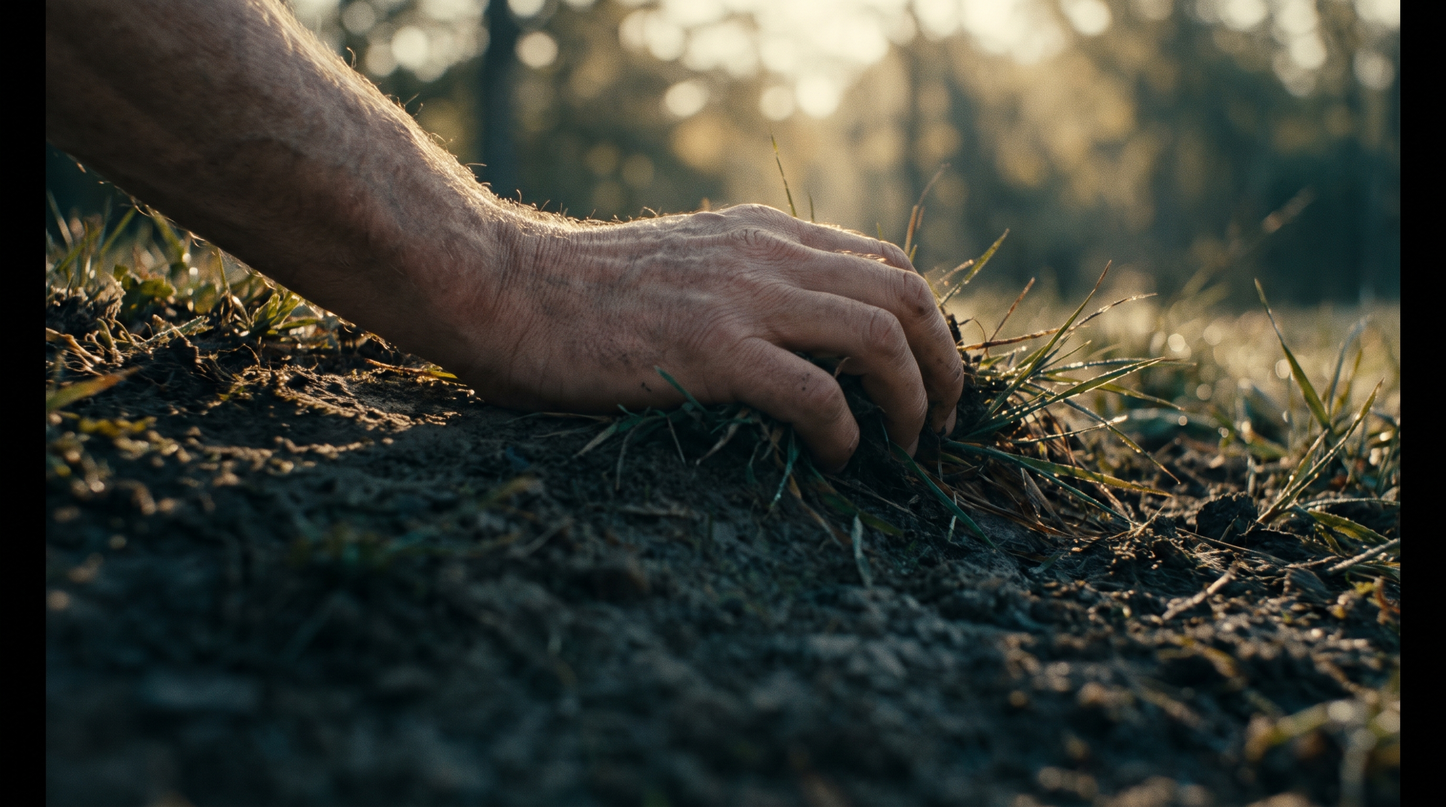
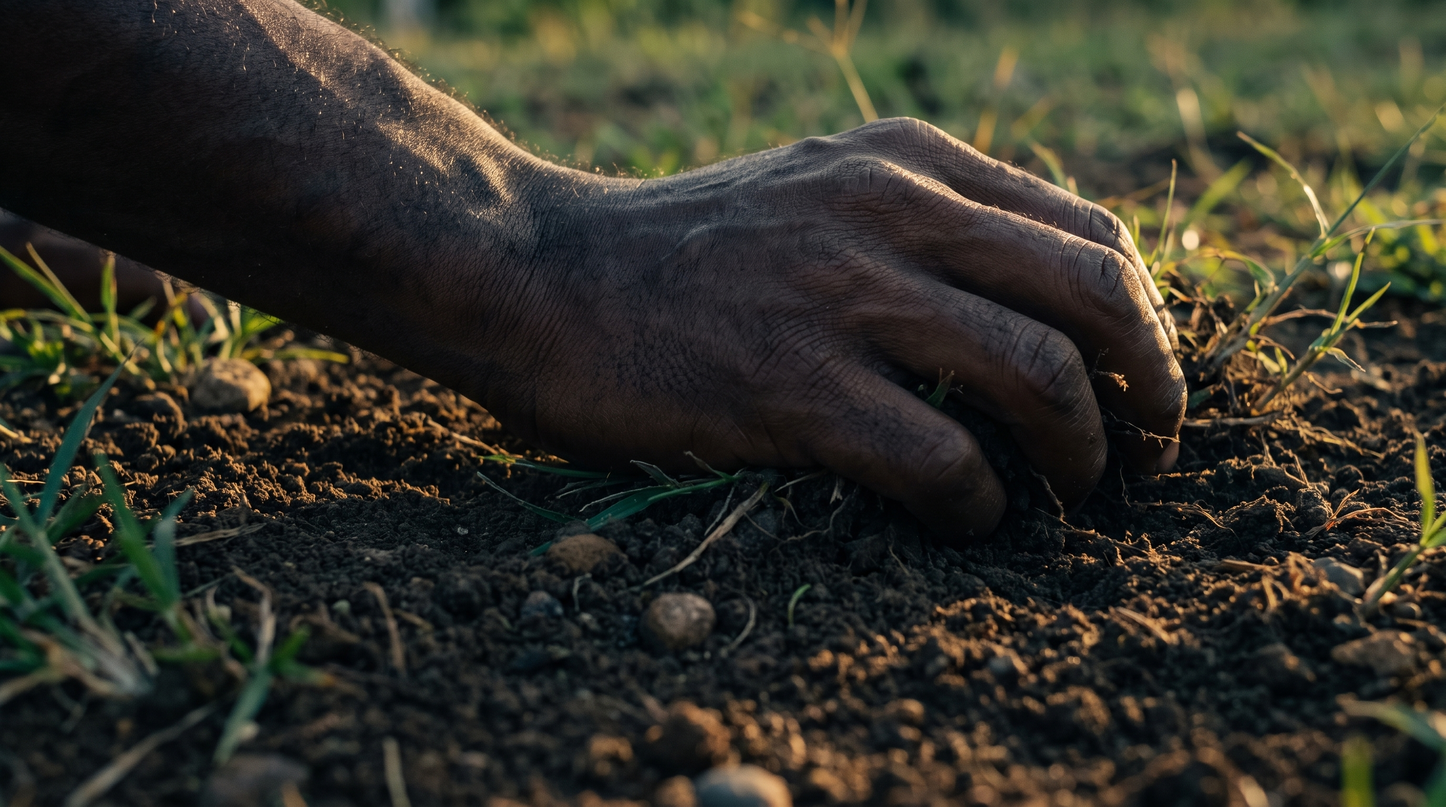
Films: The Garden v2 fixes from review. Adam's hands at 2:31 and 6:29 remade in his skin tone, the brick-maker at 5:35 in a long tunic and cloak

diff --git a/films/genesis/02-the-garden-v2/script/storyboard.py b/films/genesis/02-the-garden-v2/script/storyboard.py
@@ -171,8 +171,8 @@ SEG = {
           motion="A single strong gust sweeps across the grass toward the camera.", w=0.8),
         man("Lying on his back in deep grass at first light, seen from the side at head and shoulder height, his chest "
             "rising with his first deep breath, eyes open to the sky.", motion="His chest rises; a first deep breath.", w=1.2),
-        S("Close: a man's bare hand lying on dark earth closing slowly around a handful of soil, grass around it, first "
-          "light; only the bare hand and bare forearm in the frame, no sleeve, no clothing, no watch, no rings.", "veo", motion="The fingers close on the earth."),
+        S("Close: the hand of the man in the reference portrait: deep dark brown skin exactly like his face, never pale, never light skinned; a bare hand lying on dark earth closing slowly around a handful of soil, grass around it, first "
+          "light; only the bare hand and bare forearm in the frame, no sleeve, no clothing, no watch, no rings.", "veo", ["adam"], motion="The fingers close on the earth."),
         man("Close, chest up: his face as first light moves across it, eyes wide in wonder, breathing.",
             motion="Light crosses his face; he breathes.", w=1.2),
         R(V1 + "s019.jpg", "Slow push.", anim=True),
@@ -233,7 +233,9 @@ SEG = {
          R(V1 + "s027.jpg", "Slow push.", cue="Here a river flows out")],
     # 12 the sanctuary turn: the camp at sunrise
     12: [bm("Sunrise in the camp: he walks between the goat hair tents toward the tent sanctuary at the centre, seen from "
-            "behind and to the side. " + CAMP, motion="He walks toward the sanctuary."),
+            "behind and to the side. He wears one long plain undyed tunic falling below his knees to mid calf, belted "
+            "with a cord, and a plain cloak over his shoulders; no shorts, no trousers, no separate garment on his legs. "
+            + CAMP, motion="He walks toward the sanctuary."),
          S(f"The gate of the tent sanctuary's courtyard facing east straight into the rising sun, its curtain of blue, "
            f"purple and scarlet woven linen lit by the sunrise. {CAMP}", "veo", motion="The sun rises behind the camera; "
            "light floods into the gate.", cue="Its entrance faces east"),
@@ -255,8 +257,9 @@ SEG = {
          man("In the garden at first light he tends a grapevine, lifting a heavy branch onto a living trellis of young "
              "trees, seen from the chest up at medium distance among the leaves.", motion="He lifts the vine."),
          R(V1 + "s038.jpg", "Slow push.", cue="Cultivate and keep"),
-         S("Close: a man's bare hands pressing dark soil firmly around a young fig seedling in the garden at first light; "
-           "only the bare hands and bare forearms, no sleeves, no clothing, no watch, no rings.", "still", cue="the ordinary word for serving God"),
+         S("Close: the hands of the man in the reference portrait: deep dark brown skin exactly like his face, never pale, never light skinned; bare hands pressing dark soil firmly around a young fig seedling in the garden at first light; "
+           "only the bare hands and bare forearms, no sleeves, no clothing, no watch, no rings.", "still", ["adam"],
+           cue="the ordinary word for serving God"),
          S(f"In the courtyard of the tent sanctuary at first light a Levite in a plain white linen tunic tends the altar "
            f"fire, adding wood, seen from the side at medium distance, his face turned away. {CAMP}", "veo",
            flags="distant", motion="He lays wood on the fire.", cue="The second means"),

diff --git a/films/genesis/02-the-garden-v2/script/shotlist.md b/films/genesis/02-the-garden-v2/script/shotlist.md
@@ -89,8 +89,9 @@ Generated by `script/storyboard.py`. Reuse and graphic shots carry no prompt.
 - Motion: His chest rises; a first deep breath.
 
 ### Shot 50: s050 Dust and breath (2.8 s, veo)
+- Refs: stills/cast/adam.jpg
 - Image prompt
-> Close: a man's bare hand lying on dark earth closing slowly around a handful of soil, grass around it, first light; only the bare hand and bare forearm in the frame, no sleeve, no clothing, no watch, no rings. No people, no figures, no faces, no silhouettes. No hands and no figure in the sky, in the light or in the wind. Photorealistic cinematic film still, shot on 35mm film, natural light, colour grade of deep ink teal shadows and warm muted gold highlights, warm cream whites, no saturated reds or purples, calm and reverent, wide 16:9 composition with calm low detail space in the lower third, full frame with no borders or black bars, the image filling the whole frame edge to edge with no blank or faded band, no text, no lettering, no watermark, not a painting, not an illustration, not a 3D render, not cartoon. Sharp focus from the foreground to the horizon: the ground or water at the bottom of the frame is crisp and detailed right to the bottom edge, with no blur, no haze, no fog, no mist band and no faded band at the bottom.
+> Close: the hand of the man in the reference portrait: deep dark brown skin exactly like his face, never pale, never light skinned; a bare hand lying on dark earth closing slowly around a handful of soil, grass around it, first light; only the bare hand and bare forearm in the frame, no sleeve, no clothing, no watch, no rings. No people, no figures, no faces, no silhouettes. No hands and no figure in the sky, in the light or in the wind. Match the light, colour grade and world of the reference images. Photorealistic cinematic film still, shot on 35mm film, natural light, colour grade of deep ink teal shadows and warm muted gold highlights, warm cream whites, no saturated reds or purples, calm and reverent, wide 16:9 composition with calm low detail space in the lower third, full frame with no borders or black bars, the image filling the whole frame edge to edge with no blank or faded band, no text, no lettering, no watermark, not a painting, not an illustration, not a 3D render, not cartoon. Sharp focus from the foreground to the horizon: the ground or water at the bottom of the frame is crisp and detailed right to the bottom edge, with no blur, no haze, no fog, no mist band and no faded band at the bottom.
 - Motion: The fingers close on the earth.
 
 ### Shot 51: s051 Dust and breath (3.4 s, veo)
@@ -178,7 +179,7 @@ Generated by `script/storyboard.py`. Reuse and graphic shots carry no prompt.
 ### Shot 90: s090 A garden like a sanctuary (8.4 s, veo)
 - Refs: stills/cast/brickmaker.jpg, stills/cast/brickmaker-turnaround.jpg
 - Image prompt
-> Sunrise in the camp: he walks between the goat hair tents toward the tent sanctuary at the centre, seen from behind and to the side. A wilderness camp of Israel in the Sinai desert in the time of Moses: low tents of black goat hair in rows on sand and gravel, rocky desert mountains behind, cooking fires; at the centre of the camp a large tent sanctuary of woven curtains inside a courtyard fence of white linen hung on posts. No stone buildings, no towers, no statues, no carvings of figures, no domes. The man is the brick-maker in the reference images, now free in the wilderness: keep his face, skin tone, curly dark hair with grey, full beard with grey at the chin and build exactly; he wears a plain undyed knee length linen tunic, clean now, no mud. Quiet, thoughtful, at peace, never grinning. Framed from the chest up or wider, never an extreme close up of the face. No other people close to the camera. No hands and no figure in the sky, in the light or in the wind. Match the light, colour grade and world of the reference images. Photorealistic cinematic film still, shot on 35mm film, natural light, colour grade of deep ink teal shadows and warm muted gold highlights, warm cream whites, no saturated reds or purples, calm and reverent, wide 16:9 composition with calm low detail space in the lower third, full frame with no borders or black bars, the image filling the whole frame edge to edge with no blank or faded band, no text, no lettering, no watermark, not a painting, not an illustration, not a 3D render, not cartoon. Sharp focus from the foreground to the horizon: the ground or water at the bottom of the frame is crisp and detailed right to the bottom edge, with no blur, no haze, no fog, no mist band and no faded band at the bottom.
+> Sunrise in the camp: he walks between the goat hair tents toward the tent sanctuary at the centre, seen from behind and to the side. He wears one long plain undyed tunic falling below his knees to mid calf, belted with a cord, and a plain cloak over his shoulders; no shorts, no trousers, no separate garment on his legs. A wilderness camp of Israel in the Sinai desert in the time of Moses: low tents of black goat hair in rows on sand and gravel, rocky desert mountains behind, cooking fires; at the centre of the camp a large tent sanctuary of woven curtains inside a courtyard fence of white linen hung on posts. No stone buildings, no towers, no statues, no carvings of figures, no domes. The man is the brick-maker in the reference images, now free in the wilderness: keep his face, skin tone, curly dark hair with grey, full beard with grey at the chin and build exactly; he wears a plain undyed knee length linen tunic, clean now, no mud. Quiet, thoughtful, at peace, never grinning. Framed from the chest up or wider, never an extreme close up of the face. No other people close to the camera. No hands and no figure in the sky, in the light or in the wind. Match the light, colour grade and world of the reference images. Photorealistic cinematic film still, shot on 35mm film, natural light, colour grade of deep ink teal shadows and warm muted gold highlights, warm cream whites, no saturated reds or purples, calm and reverent, wide 16:9 composition with calm low detail space in the lower third, full frame with no borders or black bars, the image filling the whole frame edge to edge with no blank or faded band, no text, no lettering, no watermark, not a painting, not an illustration, not a 3D render, not cartoon. Sharp focus from the foreground to the horizon: the ground or water at the bottom of the frame is crisp and detailed right to the bottom edge, with no blur, no haze, no fog, no mist band and no faded band at the bottom.
 - Motion: He walks toward the sanctuary.
 
 ### Shot 91: s091 A garden like a sanctuary (4.0 s, veo)
@@ -213,8 +214,9 @@ Generated by `script/storyboard.py`. Reuse and graphic shots carry no prompt.
 - Motion: He lifts the vine.
 
 ### Shot 100: s100 To cultivate and keep (3.8 s, still)
+- Refs: stills/cast/adam.jpg
 - Image prompt
-> Close: a man's bare hands pressing dark soil firmly around a young fig seedling in the garden at first light; only the bare hands and bare forearms, no sleeves, no clothing, no watch, no rings. No people, no figures, no faces, no silhouettes. No hands and no figure in the sky, in the light or in the wind. Photorealistic cinematic film still, shot on 35mm film, natural light, colour grade of deep ink teal shadows and warm muted gold highlights, warm cream whites, no saturated reds or purples, calm and reverent, wide 16:9 composition with calm low detail space in the lower third, full frame with no borders or black bars, the image filling the whole frame edge to edge with no blank or faded band, no text, no lettering, no watermark, not a painting, not an illustration, not a 3D render, not cartoon. Sharp focus from the foreground to the horizon: the ground or water at the bottom of the frame is crisp and detailed right to the bottom edge, with no blur, no haze, no fog, no mist band and no faded band at the bottom.
+> Close: the hands of the man in the reference portrait: deep dark brown skin exactly like his face, never pale, never light skinned; bare hands pressing dark soil firmly around a young fig seedling in the garden at first light; only the bare hands and bare forearms, no sleeves, no clothing, no watch, no rings. No people, no figures, no faces, no silhouettes. No hands and no figure in the sky, in the light or in the wind. Match the light, colour grade and world of the reference images. Photorealistic cinematic film still, shot on 35mm film, natural light, colour grade of deep ink teal shadows and warm muted gold highlights, warm cream whites, no saturated reds or purples, calm and reverent, wide 16:9 composition with calm low detail space in the lower third, full frame with no borders or black bars, the image filling the whole frame edge to edge with no blank or faded band, no text, no lettering, no watermark, not a painting, not an illustration, not a 3D render, not cartoon. Sharp focus from the foreground to the horizon: the ground or water at the bottom of the frame is crisp and detailed right to the bottom edge, with no blur, no haze, no fog, no mist band and no faded band at the bottom.
 - Motion: Slow push in.
 
 ### Shot 101: s101 To cultivate and keep (6.6 s, veo)

diff --git a/films/genesis/02-the-garden-v2/script/storyboard.md b/films/genesis/02-the-garden-v2/script/storyboard.md
@@ -53,7 +53,7 @@ Generated by `script/storyboard.py`.
 | s047 | 2:22.1 | 2.8 s | reuse anim | reuse ../02-the-garden/stills/movement/s016.jpg |
 | s048 | 2:24.9 | 2.2 s | veo | Wind rushing low across tall grass toward the camera at first light, the grass bending in one long wave. |
 | s049 | 2:27.1 | 3.4 s | veo | Lying on his back in deep grass at first light, seen from the side at head and shoulder height, his chest rising with his first deep breath, eyes open to the sky. |
-| s050 | 2:30.5 | 2.8 s | veo | Close: a man's bare hand lying on dark earth closing slowly around a handful of soil, grass around it, first light; only the bare hand and bare forearm in the frame, no sleeve, no clothing, no watch, no rings. |
+| s050 | 2:30.5 | 2.8 s | veo | Close: the hand of the man in the reference portrait: deep dark brown skin exactly like his face, never pale, never light skinned; a bare hand lying on dark earth closing slowly around a handful of soil, grass around it, first light; only the bare hand and bare forearm in the frame, no sleeve, no clothing, no watch, no rings. |
 | s051 | 2:33.3 | 3.4 s | veo | Close, chest up: his face as first light moves across it, eyes wide in wonder, breathing. |
 | s052 | 2:36.6 | 2.8 s | reuse anim | reuse ../02-the-garden/stills/movement/s019.jpg |
 | s053 | 2:39.4 | 3.4 s | reuse anim | reuse ../02-the-garden/stills/movement/s021.jpg |
@@ -93,7 +93,7 @@ Generated by `script/storyboard.py`.
 | s087 | 5:16.1 | 5.7 s | reuse anim | reuse ../02-the-garden/stills/movement/s030.jpg |
 | s088 | 5:21.8 | 4.2 s | veo | High on a mountain at first light, a great spring pouring from the rock and running down in streams that spread out over the land below. |
 | s089 | 5:26.0 | 8.1 s | reuse anim | reuse ../02-the-garden/stills/movement/s027.jpg |
-| s090 | 5:34.1 | 8.4 s | veo | Sunrise in the camp: he walks between the goat hair tents toward the tent sanctuary at the centre, seen from behind and to the side. A wilderness camp of Israel in the Sinai desert in the time of Moses: low tents of black goat hair in rows on sand and gravel, rocky desert mountains behind, cooking fires; at the centre of the camp a large tent sanctuary of woven curtains inside a courtyard fence of white linen hung on posts. No stone buildings, no towers, no statues, no carvings of figures, no domes. |
+| s090 | 5:34.1 | 8.4 s | veo | Sunrise in the camp: he walks between the goat hair tents toward the tent sanctuary at the centre, seen from behind and to the side. He wears one long plain undyed tunic falling below his knees to mid calf, belted with a cord, and a plain cloak over his shoulders; no shorts, no trousers, no separate garment on his legs. A wilderness camp of Israel in the Sinai desert in the time of Moses: low tents of black goat hair in rows on sand and gravel, rocky desert mountains behind, cooking fires; at the centre of the camp a large tent sanctuary of woven curtains inside a courtyard fence of white linen hung on posts. No stone buildings, no towers, no statues, no carvings of figures, no domes. |
 | s091 | 5:42.4 | 4.0 s | veo | The gate of the tent sanctuary's courtyard facing east straight into the rising sun, its curtain of blue, purple and scarlet woven linen lit by the sunrise. A wilderness camp of Israel in the Sinai desert in the time of Moses: low tents of black goat hair in rows on sand and gravel, rocky desert mountains behind, cooking fires; at the centre of the camp a large tent sanctuary of woven curtains inside a courtyard fence of white linen hung on posts. No stone buildings, no towers, no statues, no carvings of figures, no domes. |
 | s092 | 5:46.5 | 5.1 s | still | Inside the courtyard at sunrise: gold catching the light on the posts and furnishings of the tent sanctuary, polished bronze basin, smoke from the altar. |
 | s093 | 5:51.5 | 9.2 s | still | Close on the shoulders of a priest of Israel seen from behind and to the side: on each shoulder of his woven gold, blue and scarlet garment, a large dark onyx stone set in gold, engraved with rows of ancient Hebrew letters; his face not visible. One single continuous full frame image with the sky and camp behind. |
@@ -103,7 +103,7 @@ Generated by `script/storyboard.py`.
 | s097 | 6:17.1 | 2.4 s | reuse anim | reuse ../02-the-garden/stills/movement/s037.jpg |
 | s098 | 6:19.4 | 2.4 s | veo | In the garden at first light he tends a grapevine, lifting a heavy branch onto a living trellis of young trees, seen from the chest up at medium distance among the leaves. |
 | s099 | 6:21.8 | 7.5 s | reuse anim | reuse ../02-the-garden/stills/movement/s038.jpg |
-| s100 | 6:29.3 | 3.8 s | still | Close: a man's bare hands pressing dark soil firmly around a young fig seedling in the garden at first light; only the bare hands and bare forearms, no sleeves, no clothing, no watch, no rings. |
+| s100 | 6:29.3 | 3.8 s | still | Close: the hands of the man in the reference portrait: deep dark brown skin exactly like his face, never pale, never light skinned; bare hands pressing dark soil firmly around a young fig seedling in the garden at first light; only the bare hands and bare forearms, no sleeves, no clothing, no watch, no rings. |
 | s101 | 6:33.1 | 6.6 s | veo | In the courtyard of the tent sanctuary at first light a Levite in a plain white linen tunic tends the altar fire, adding wood, seen from the side at medium distance, his face turned away. A wilderness camp of Israel in the Sinai desert in the time of Moses: low tents of black goat hair in rows on sand and gravel, rocky desert mountains behind, cooking fires; at the centre of the camp a large tent sanctuary of woven curtains inside a courtyard fence of white linen hung on posts. No stone buildings, no towers, no statues, no carvings of figures, no domes. |
 | s102 | 6:39.7 | 4.4 s | still | A Levite in a white linen tunic stands guard at the gate of the sanctuary courtyard with a staff, seen from behind at medium distance, the camp beyond. A wilderness camp of Israel in the Sinai desert in the time of Moses: low tents of black goat hair in rows on sand and gravel, rocky desert mountains behind, cooking fires; at the centre of the camp a large tent sanctuary of woven curtains inside a courtyard fence of white linen hung on posts. No stone buildings, no towers, no statues, no carvings of figures, no domes. |
 | s103 | 6:44.1 | 7.6 s | reuse anim | reuse ../02-the-garden/stills/movement/s036.jpg |

diff --git a/films/genesis/02-the-garden-v2/COSTS-movement.md b/films/genesis/02-the-garden-v2/COSTS-movement.md
@@ -113,5 +113,8 @@ ElevenLabs credits valued at the Creator plan rate (22 USD for 131,000 credits).
 | 105 | 2026-10-11 | Gemini Omni (gemini-omni-1.1-flash) | clip s046 1080p | 86880 video tokens | 1.524 | 12.289 |
 | 106 | 2026-10-11 | Nano Banana Pro (gemini-3-pro-image) | still shot 190 (16:9) -> stills/movement/s190.jpg | 1 image 2K | 0.134 | 12.423 |
 | 107 | 2026-10-11 | Nano Banana Pro (gemini-3-pro-image) | still shot 13 (16:9) -> stills/movement/s013.jpg | 1 image 2K | 0.134 | 12.557 |
+| 108 | 2026-10-12 | Nano Banana Pro (gemini-3-pro-image) | still shot 50 (16:9) -> stills/movement/s050.jpg | 1 image 2K | 0.134 | 12.691 |
+| 109 | 2026-10-12 | Nano Banana Pro (gemini-3-pro-image) | still shot 90 (16:9) -> stills/movement/s090.jpg | 1 image 2K | 0.134 | 12.825 |
+| 110 | 2026-10-12 | Nano Banana Pro (gemini-3-pro-image) | still shot 100 (16:9) -> stills/movement/s100.jpg | 1 image 2K | 0.134 | 12.959 |
 
-Running total: 12.56
+Running total: 12.96
